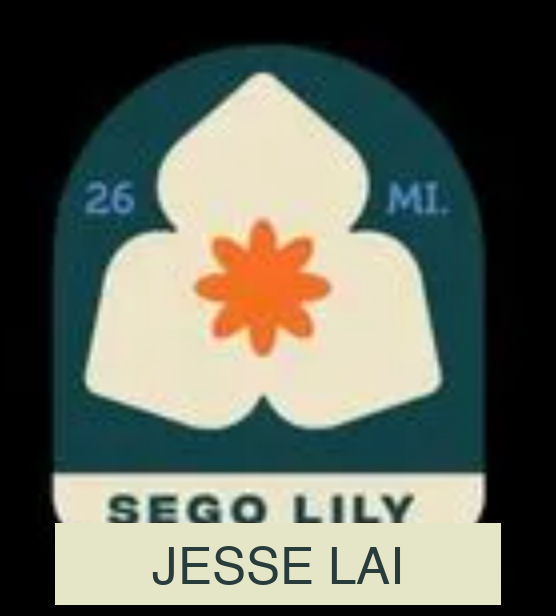
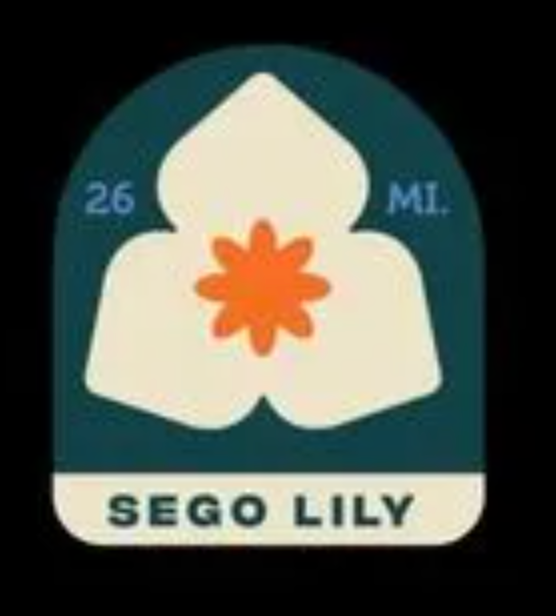
feat: text overlay via particle data, not image editing - restore original PNG

Changed region(s): [[0.0917, 0.8328, 0.9173, 0.987]]

diff --git a/wall.js b/wall.js
@@ -13,7 +13,7 @@
   document.body.appendChild(app.canvas);
 
   // ─── LOAD & SAMPLE IMAGE ───
-  async function loadImagePixels(src) {
+  async function loadImagePixels(src, textOverlay) {
     const img = new Image();
     img.crossOrigin = "anonymous";
     img.src = src;
@@ -22,6 +22,21 @@
     c.width = img.naturalWidth; c.height = img.naturalHeight;
     const ctx = c.getContext("2d");
     ctx.drawImage(img, 0, 0);
+
+    // If textOverlay specified, paint over the text region and draw new text
+    if (textOverlay) {
+      const { text, region, bgColor, textColor, font } = textOverlay;
+      // Fill background
+      ctx.fillStyle = bgColor || "#f0e6d3";
+      ctx.fillRect(region.x, region.y, region.w, region.h);
+      // Draw text
+      ctx.fillStyle = textColor || "#2a3c3c";
+      ctx.font = font || `bold ${Math.floor(region.h * 0.6)}px Helvetica, Arial, sans-serif`;
+      ctx.textAlign = "center";
+      ctx.textBaseline = "middle";
+      ctx.fillText(text, region.x + region.w / 2, region.y + region.h / 2);
+    }
+
     return { data: ctx.getImageData(0, 0, c.width, c.height), w: c.width, h: c.height };
   }
 
@@ -41,7 +56,14 @@
   }
 
   // ─── LOAD BOTH STICKERS ───
-  const img1 = await loadImagePixels("sticker.png");
+  // Sticker 1: overlay "JESSE LAI" on the text region (bottom strip)
+  const img1 = await loadImagePixels("sticker.png", {
+    text: "JESSE LAI",
+    region: { x: 56, y: 530, w: 444, h: 70 },  // text area of the sticker
+    bgColor: "#f0e6d3",
+    textColor: "#2a3c3c",
+    font: "bold 42px Helvetica, Arial, sans-serif",
+  });
   const img2 = await loadImagePixels("sticker2.png");
 
   const gap = 3; // 3x3 sampling for smooth performance
